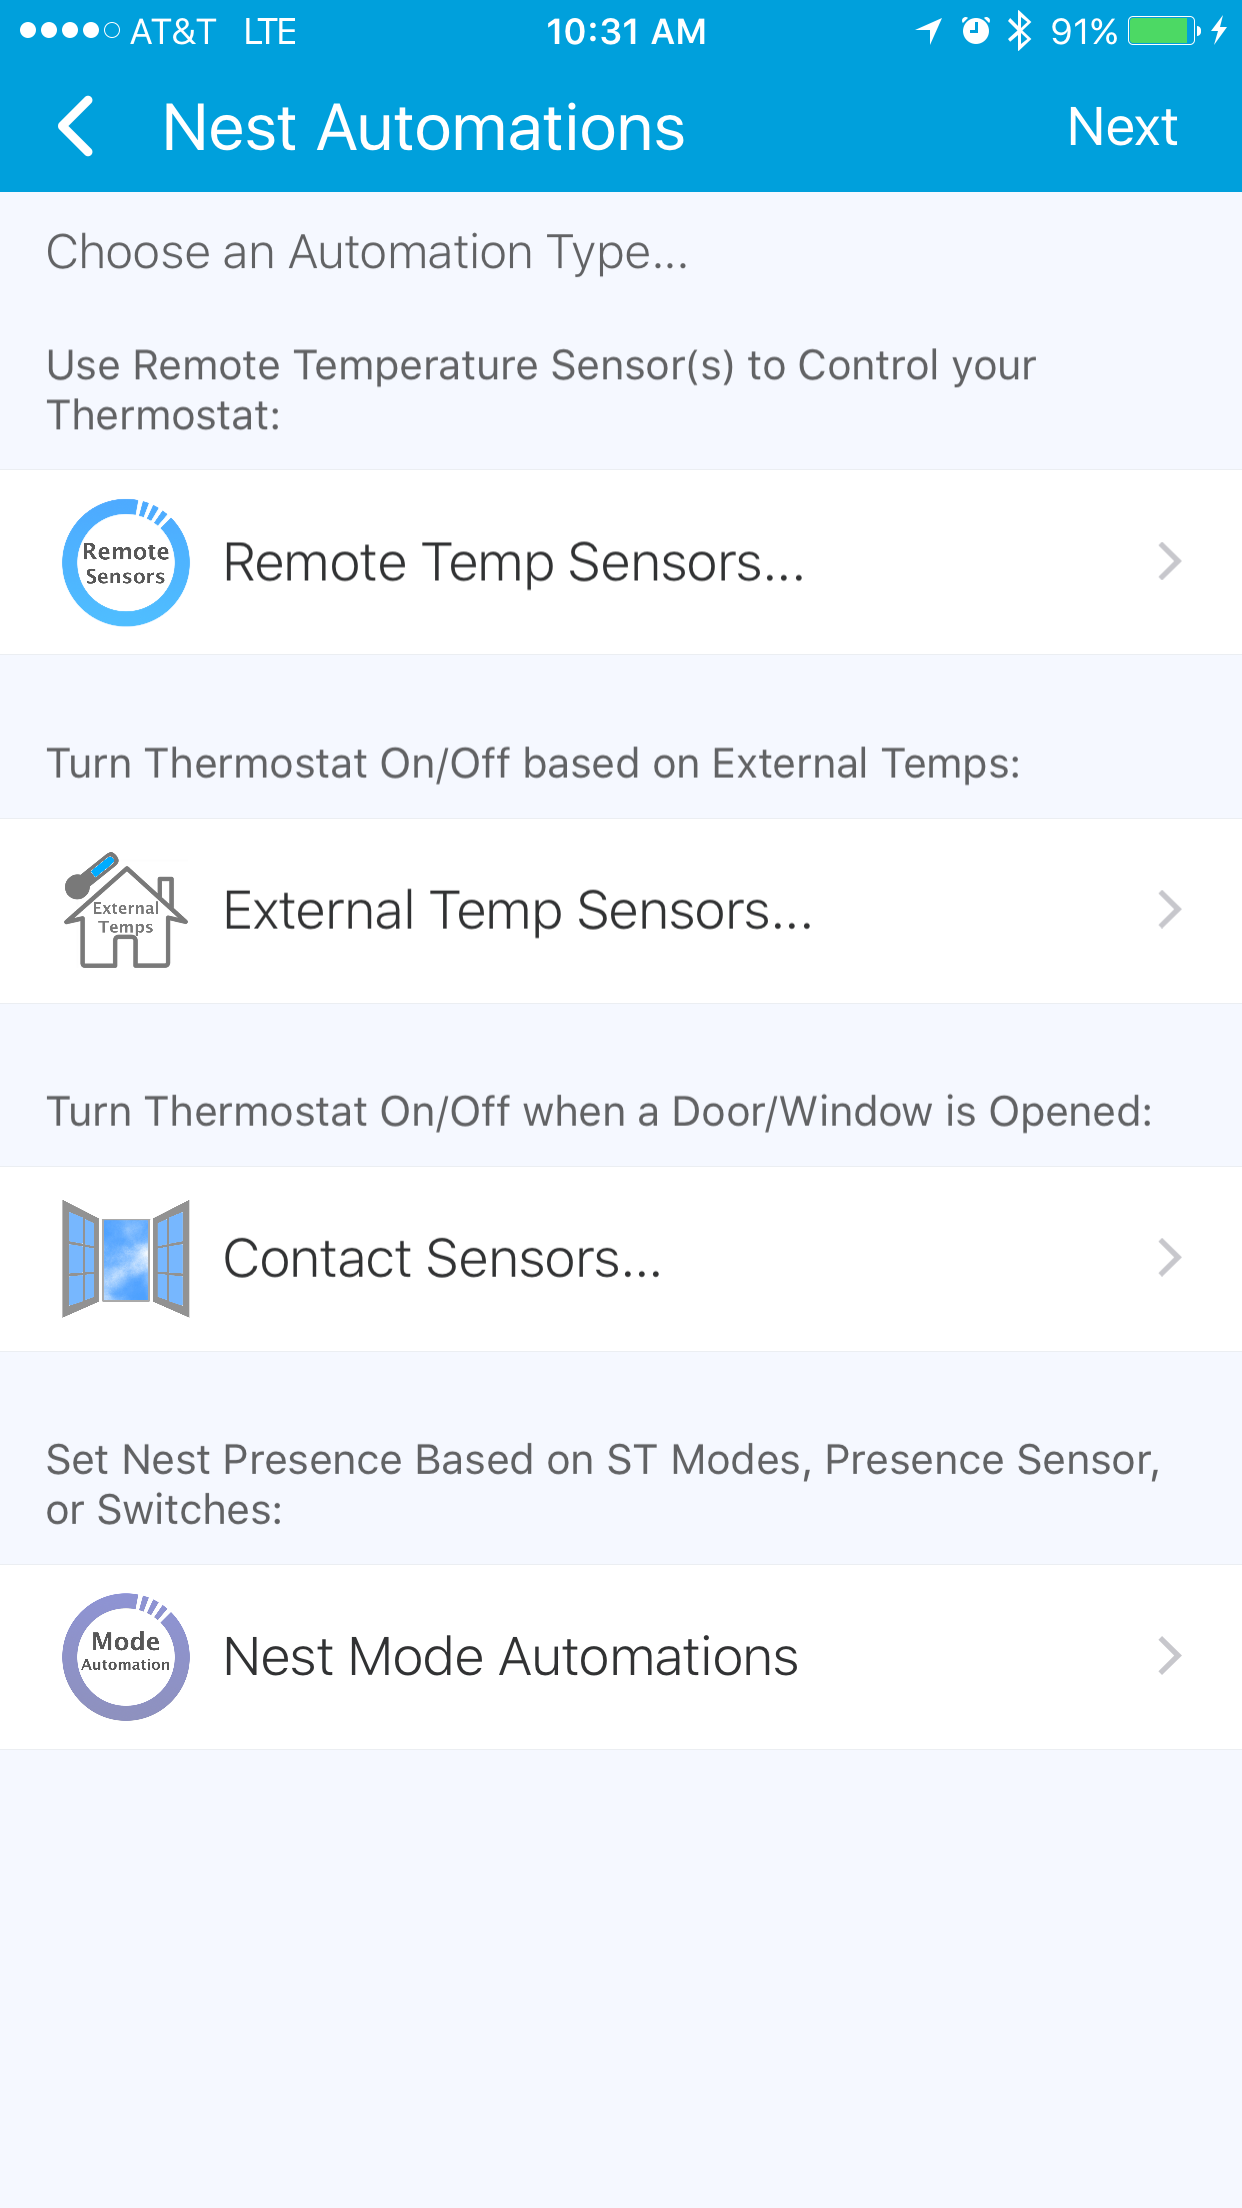
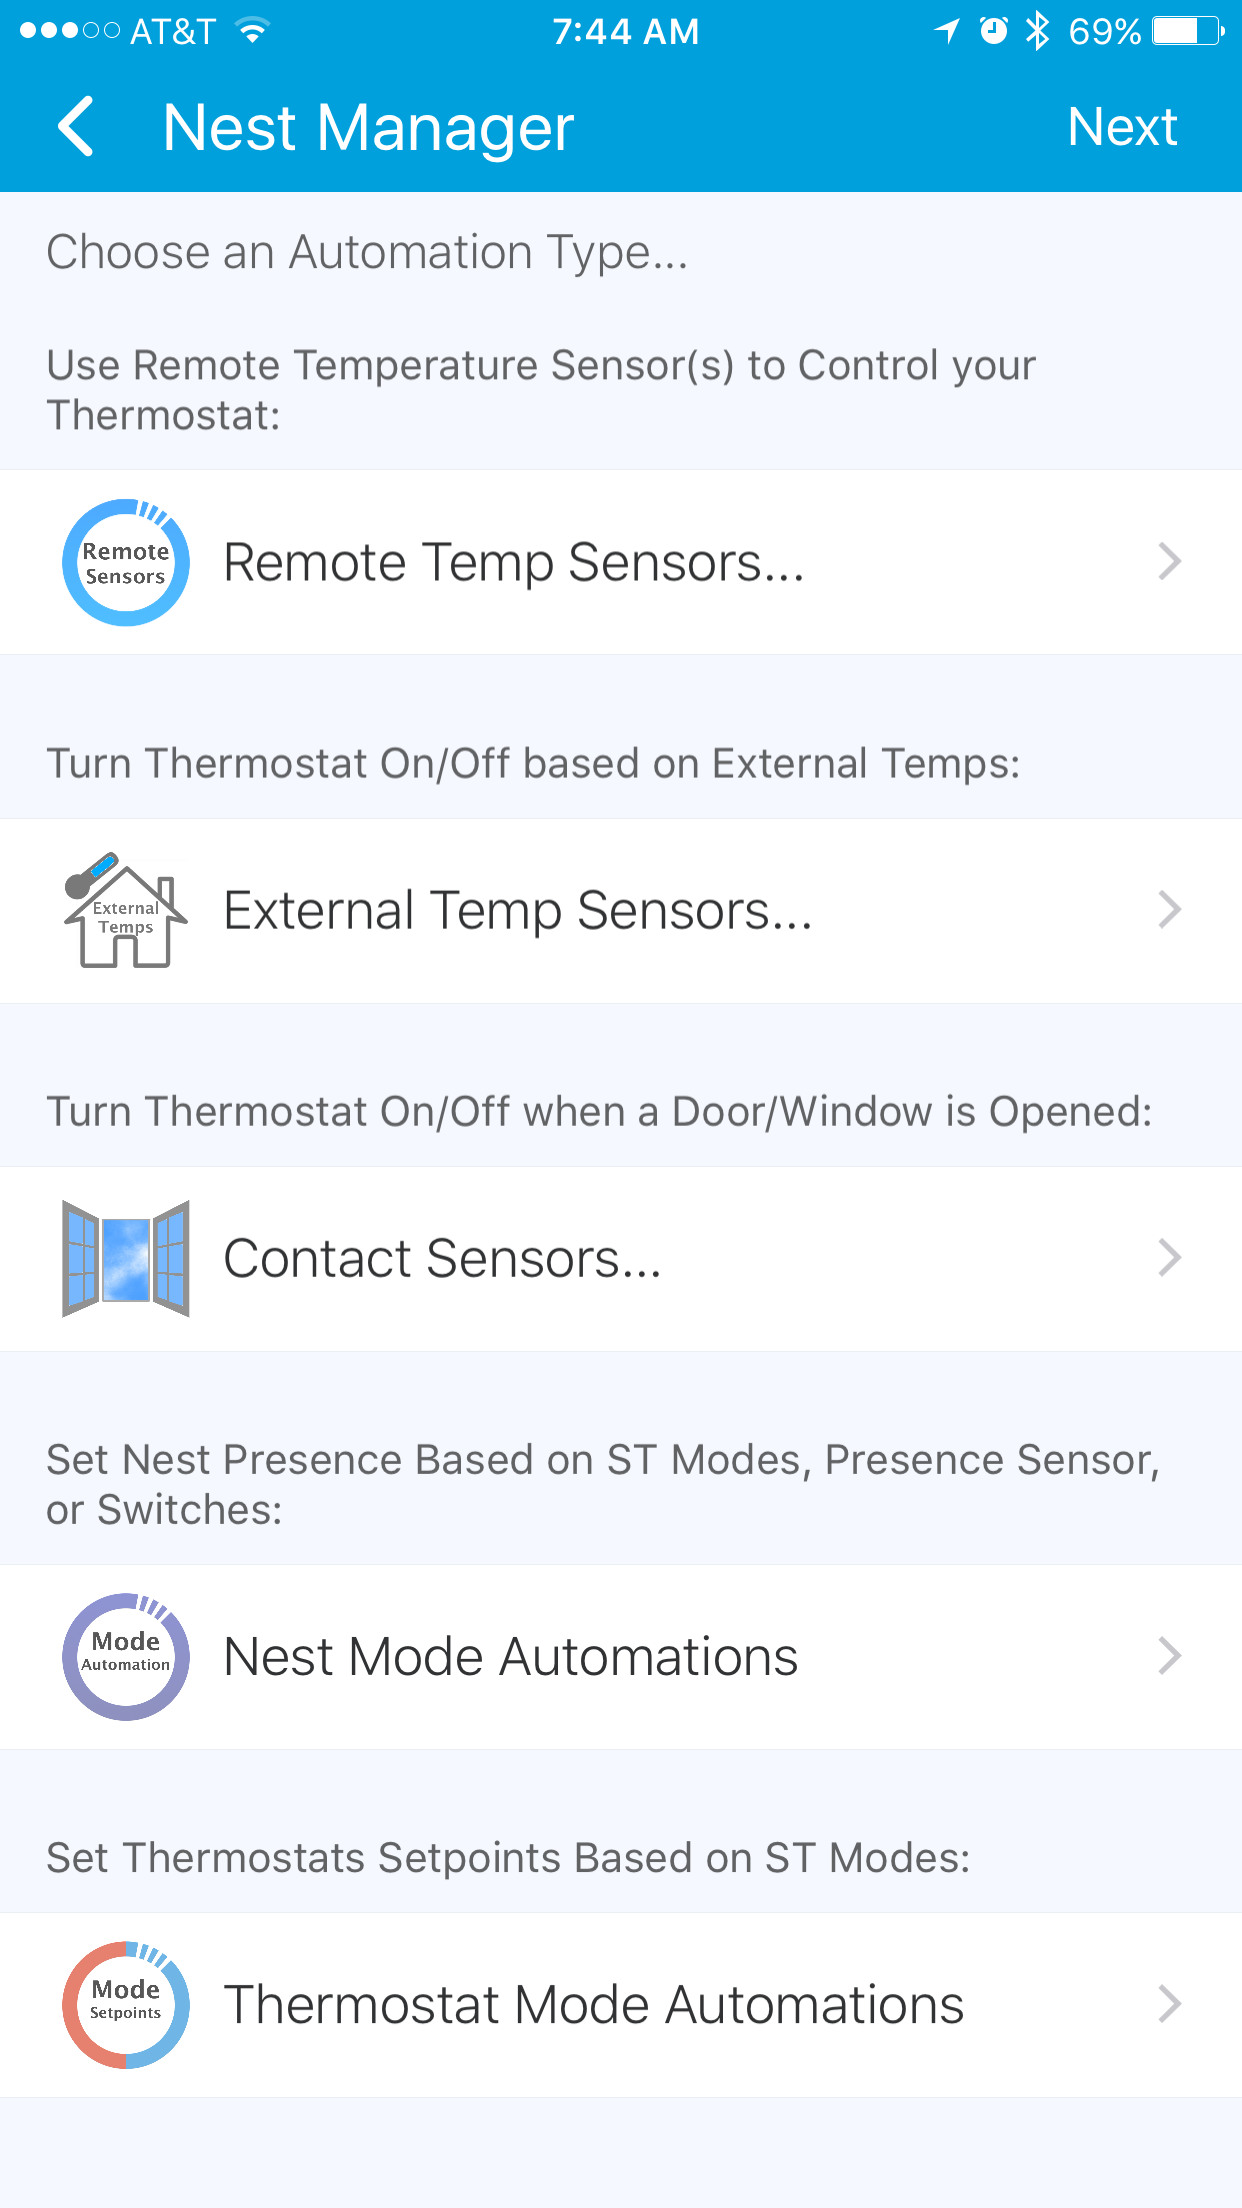
Just updating some of the documentation screenshots

diff --git a/Documents/help/nest-automations.md b/Documents/help/nest-automations.md
@@ -8,7 +8,7 @@
 
 
 ## 2. Door/Window Contact Watcher
-<img src="https://raw.githubusercontent.com/tonesto7/nest-manager/master/Images/Screenshots/App/AutomationApp/contact_watch1.png" width="281" height="500"><img src="https://raw.githubusercontent.com/tonesto7/nest-manager/master/Images/Screenshots/App/AutomationApp/ext_temp2.png" width="281" height="500"><img src="https://raw.githubusercontent.com/tonesto7/nest-manager/master/Images/Screenshots/App/AutomationApp/contact_watch3.png" width="281" height="500"><img src="https://raw.githubusercontent.com/tonesto7/nest-manager/master/Images/Screenshots/App/AutomationApp/contact_watch4.png" width="281" height="500"><img src="https://raw.githubusercontent.com/tonesto7/nest-manager/master/Images/Screenshots/App/AutomationApp/contact_watch5.png" width="281" height="500">
+<img src="https://raw.githubusercontent.com/tonesto7/nest-manager/master/Images/Screenshots/App/AutomationApp/contact_watch_1.png" width="281" height="500"><img src="https://raw.githubusercontent.com/tonesto7/nest-manager/master/Images/Screenshots/App/AutomationApp/contact_watch_2.png" width="281" height="500"><img src="https://raw.githubusercontent.com/tonesto7/nest-manager/master/Images/Screenshots/App/AutomationApp/contact_watch_3.png" width="281" height="500"><img src="https://raw.githubusercontent.com/tonesto7/nest-manager/master/Images/Screenshots/App/AutomationApp/contact_watch_4.png" width="281" height="500"><img src="https://raw.githubusercontent.com/tonesto7/nest-manager/master/Images/Screenshots/App/AutomationApp/contact_watch_5.png" width="281" height="500">
 
 * Select Contact(s) to monitor there open/close states. 
 * Select the Thermostat you wish to control.
@@ -35,9 +35,18 @@
 ## 4. Presence Mode Automation
 Change Nest Home/Away based on SmartThings Modes 
 
-<img src="https://raw.githubusercontent.com/tonesto7/nest-manager/master/Images/Screenshots/App/AutomationApp/nest_modes.png" width="281" height="500">
+<img src="https://raw.githubusercontent.com/tonesto7/nest-manager/master/Images/Screenshots/App/AutomationApp/nest_mode_1.png" width="281" height="500"><img src="https://raw.githubusercontent.com/tonesto7/nest-manager/master/Images/Screenshots/App/AutomationApp/nest_mode_2.png" width="281" height="500"><img src="https://raw.githubusercontent.com/tonesto7/nest-manager/master/Images/Screenshots/App/AutomationApp/nest_mode_3.png" width="281" height="500"><img src="https://raw.githubusercontent.com/tonesto7/nest-manager/master/Images/Screenshots/App/AutomationApp/nest_mode_4.png" width="281" height="500"><img src="https://raw.githubusercontent.com/tonesto7/nest-manager/master/Images/Screenshots/App/AutomationApp/nest_mode_5.png" width="281" height="500"><img src="https://raw.githubusercontent.com/tonesto7/nest-manager/master/Images/Screenshots/App/AutomationApp/nest_mode_6.png" width="281" height="500">
 
 * Select the SmartThings Modes to use to set the Nest Location to 'Home'
 * Select the SmartThings Modes to use to set the Nest Location to 'Away'
 
 ----------
+
+## 5. Thermostat Mode Automations
+Set Temp Setpoints based on ST Modes 
+
+<img src="https://raw.githubusercontent.com/tonesto7/nest-manager/master/Images/Screenshots/App/AutomationApp/tstat_modes_1.png" width="281" height="500"><img src="https://raw.githubusercontent.com/tonesto7/nest-manager/master/Images/Screenshots/App/AutomationApp/tstat_modes_2.png" width="281" height="500"><img src="https://raw.githubusercontent.com/tonesto7/nest-manager/master/Images/Screenshots/App/AutomationApp/tstat_modes_3.png" width="281" height="500"><img src="https://raw.githubusercontent.com/tonesto7/nest-manager/master/Images/Screenshots/App/AutomationApp/tstat_modes_4.png" width="281" height="500"><img src="https://raw.githubusercontent.com/tonesto7/nest-manager/master/Images/Screenshots/App/AutomationApp/tstat_modes_5.png" width="281" height="500"><img src="https://raw.githubusercontent.com/tonesto7/nest-manager/master/Images/Screenshots/App/AutomationApp/tstat_modes_6.png" width="281" height="500">
+
+
+----------
+
